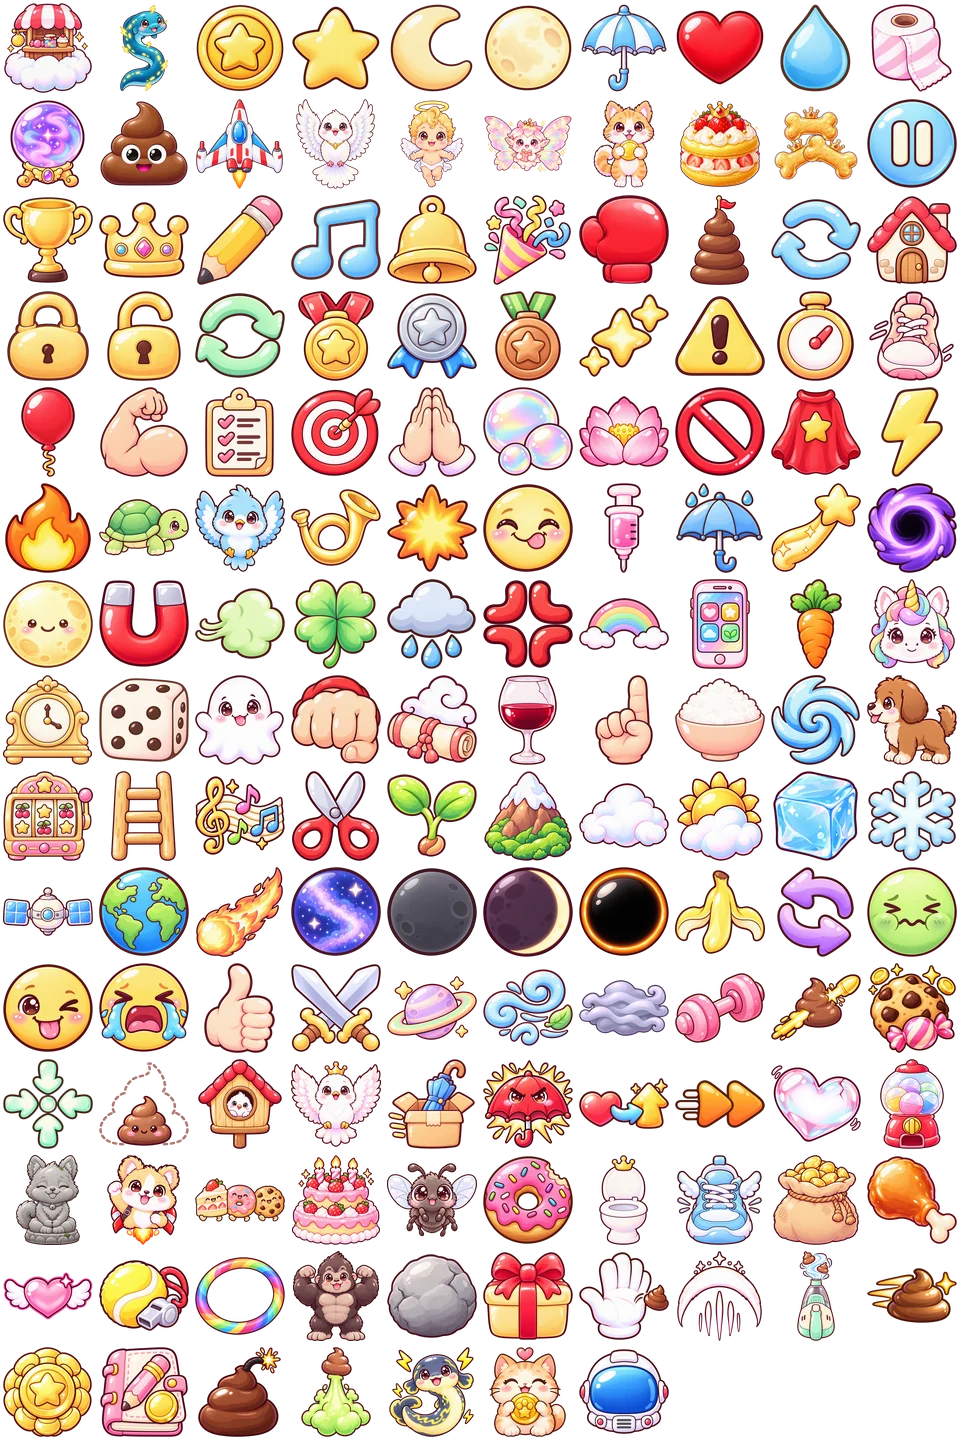
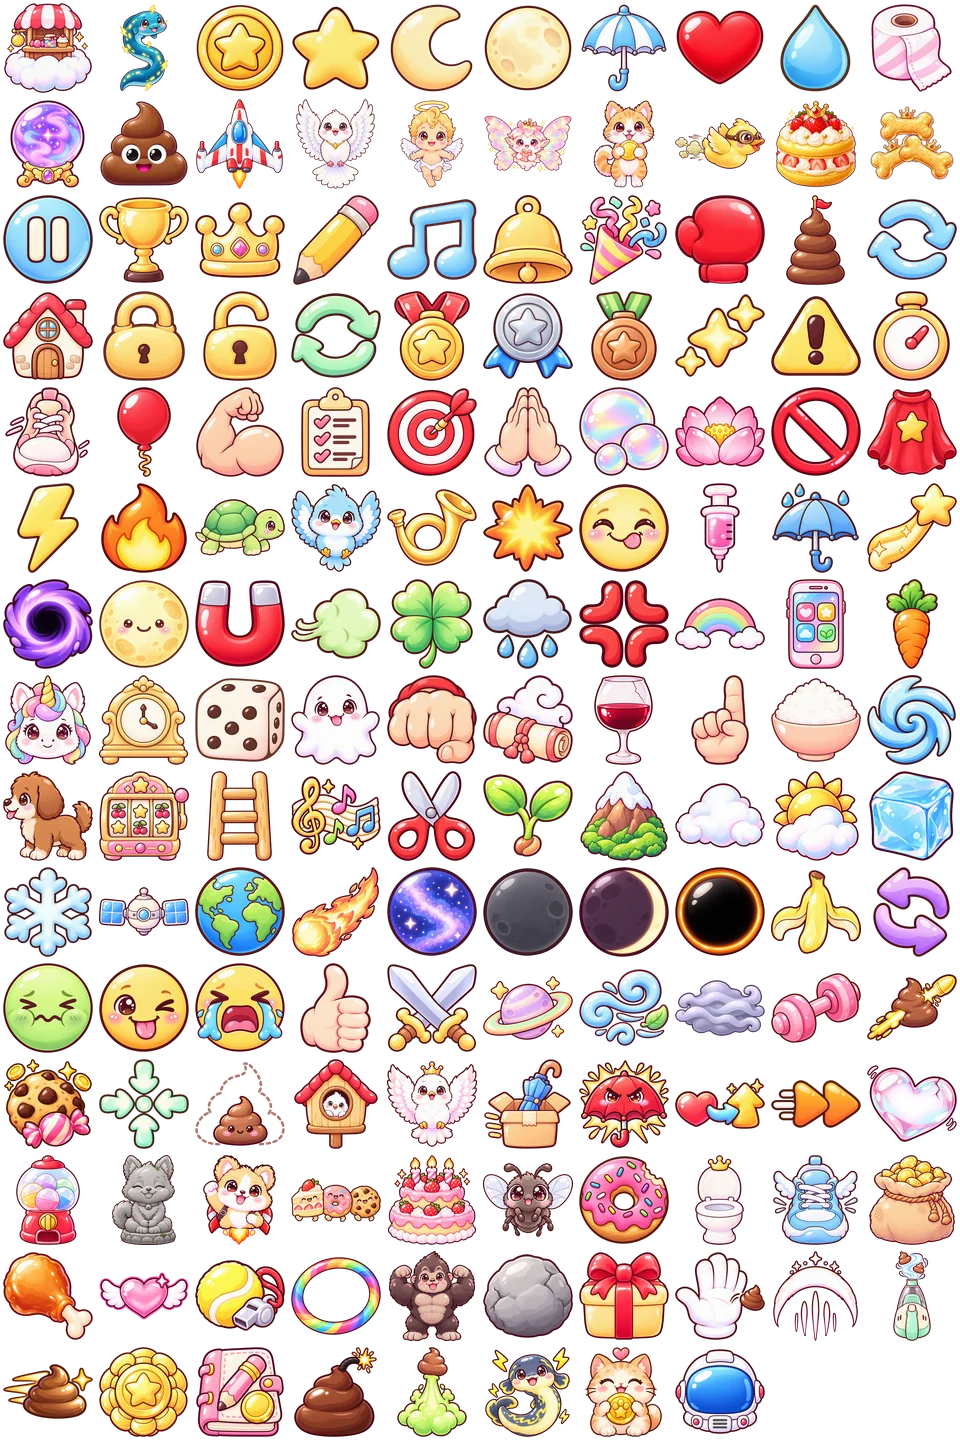
배포: v0.9.343 새 펫 '방귀 부릉 오리' — 8초마다 화면 가운데를 가로질러 날며 똥 부숨(Codex 그림, 상점 50코인)

diff --git a/index.html b/index.html
@@ -2603,12 +2603,12 @@
        밀어 숨길 뿐 남겨 두어 textContent 가 그대로다(글자를 읽는 코드가 안 깨진다). 나중에 붙는 글자는 MutationObserver 가 잡는다.
      · 캔버스 글자: fillText/strokeText 를 감싸 이모지 자리에 그림을 그린다 — 자리 폭은 원래 이모지 폭 그대로라 배치가 안 바뀐다.
      그림이 아직 안 왔거나 목록에 없는 이모지는 원래 이모지로 나온다. */
-  /*ICONS-BEGIN*/ const ICON_KEYS = ["🏪", "🐍", "🪙", "⭐", "🌙", "🌕", "☂", "❤", "💧", "🧻", "🔮", "💩", "🚀", "🕊", "👼", "🧚", "🐈", "🦴", "🍗", "⏸", "🏆", "👑", "✏", "🎵", "🔔", "🎉", "🥊", "🗼", "🔄", "🏠", "🔒", "🔓", "🔁", "🥇", "🥈", "🥉", "✨", "⚠", "⏱", "🏃", "🎈", "💪", "📋", "🎯", "🙏", "🫧", "🧘", "🚫", "🦸", "⚡", "🔥", "🐢", "🐦", "📯", "💥", "😋", "💉", "☔", "🌠", "🕳", "🌝", "🧲", "💨", "🍀", "🌧", "💢", "🌈", "📱", "🥕", "🦄", "🕰", "🎲", "👻", "👊", "👯", "🍷", "☝", "🍚", "🌀", "🐕", "🎰", "🪜", "🎼", "✂", "🌱", "⛰", "☁", "🌤", "🧊", "❄", "🛰", "🌍", "☄", "🌌", "🌑", "🌒", "⚫", "🍌", "😵", "🤢", "😜", "😭", "👍", "⚔", "🪐", "🌬", "🌫", "🏋", "🔩", "🍪", "🤏", "🟤", "🪺", "🦢", "📦", "🌂", "💞", "⏩", "🫙", "🪀", "🗿", "🐹", "🍰", "🎂", "🪰", "🍩", "🚽", "👟", "💰", "🍖", "💖", "🎾", "⭕", "🦍", "🪨", "🎁", "🙅", "🤹", "🧹", "😅", "🛡", "📝", "💣", "🧨", "🕺", "🏵", "🧑🚀"]; const ICON_COLS = 10, ICON_ROWS = 15, ICON_CELL = 96; /*ICONS-END*/
+  /*ICONS-BEGIN*/ const ICON_KEYS = ["🏪", "🐍", "🪙", "⭐", "🌙", "🌕", "☂", "❤", "💧", "🧻", "🔮", "💩", "🚀", "🕊", "👼", "🧚", "🐈", "🦆", "🦴", "🍗", "⏸", "🏆", "👑", "✏", "🎵", "🔔", "🎉", "🥊", "🗼", "🔄", "🏠", "🔒", "🔓", "🔁", "🥇", "🥈", "🥉", "✨", "⚠", "⏱", "🏃", "🎈", "💪", "📋", "🎯", "🙏", "🫧", "🧘", "🚫", "🦸", "⚡", "🔥", "🐢", "🐦", "📯", "💥", "😋", "💉", "☔", "🌠", "🕳", "🌝", "🧲", "💨", "🍀", "🌧", "💢", "🌈", "📱", "🥕", "🦄", "🕰", "🎲", "👻", "👊", "👯", "🍷", "☝", "🍚", "🌀", "🐕", "🎰", "🪜", "🎼", "✂", "🌱", "⛰", "☁", "🌤", "🧊", "❄", "🛰", "🌍", "☄", "🌌", "🌑", "🌒", "⚫", "🍌", "😵", "🤢", "😜", "😭", "👍", "⚔", "🪐", "🌬", "🌫", "🏋", "🔩", "🍪", "🤏", "🟤", "🪺", "🦢", "📦", "🌂", "💞", "⏩", "🫙", "🪀", "🗿", "🐹", "🍰", "🎂", "🪰", "🍩", "🚽", "👟", "💰", "🍖", "💖", "🎾", "⭕", "🦍", "🪨", "🎁", "🙅", "🤹", "🧹", "😅", "🛡", "📝", "💣", "🧨", "🕺", "🏵", "🧑🚀"]; const ICON_COLS = 10, ICON_ROWS = 15, ICON_CELL = 96; /*ICONS-END*/
   const ICON_IDX = new Map(ICON_KEYS.map((k, i) => [k, i]));
   const ICON_RE = ICON_KEYS.length ? new RegExp("(" + ICON_KEYS.slice().sort((a, b) => b.length - a.length)
     .map(k => k.replace(/[.*+?^${}()|[\]\\]/g, "\\$&")).join("|") + ")\\uFE0F?", "gu") : null;
   let iconSheet = null;
-  const ICON_V = 2;   // v0.9.341 그림만 바뀌어도 새로 받게 — 아이콘을 다시 그리면 1 올린다
+  const ICON_V = 3;   // v0.9.341 그림만 바뀌어도 새로 받게 — 아이콘을 다시 그리면 1 올린다
   const ICON_URL = "assets/icons.webp?k=" + ICON_KEYS.length + "-" + ICON_KEYS.join("").length + "-" + ICON_V;   // v0.9.78 칸 순서가 바뀌면 옛 그림을 쓰지 않게
   if (ICON_RE) {
     const im = new Image();
@@ -2724,7 +2724,7 @@
   const elTitle = document.getElementById("overTitle");
   const coinNote = document.getElementById("coinNote");
 
-  const GAME_VERSION = "v0.9.342";
+  const GAME_VERSION = "v0.9.343";
   /* 제작사 스플래시(bamhobak friends 로고) — 2026-09-20 끔. 다시 켜려면 true */
   const SPLASH_USE = false;   // 코드를 고칠 때마다 뒤 두 자리를 올린다
   document.getElementById("ver").textContent = GAME_VERSION;
@@ -3019,11 +3019,13 @@
     coincat: { nm: "코인냥이", ic: "🐈", img: "assets/pet_cat.png",
               ds: "가끔 코인을 물어다 줘요" },
     eel:    { nm: "찌릿 장어", ic: "⚡", img: "assets/pet_eel.png",
-              ds: "가끔 가까운 똥에 찌릿! 번개를 쏘고, 옆 똥까지 번져요" }
+              ds: "가끔 가까운 똥에 찌릿! 번개를 쏘고, 옆 똥까지 번져요" },
+    duck:   { nm: "방귀 부릉 오리", ic: "🦆", img: "assets/pet_duck.png",   // v0.9.343
+              ds: "가끔 방귀로 부릉! 화면 가운데를 가로질러 날아가며 닿는 똥을 부숴요" }
   };
   // 게임 화면에 그릴 펫 그림 (카드 그림과 같은 파일)
   const PET_IMG = {};
-  for (const id of ["angel", "gift", "coincat", "eel"]) {
+  for (const id of ["angel", "gift", "coincat", "eel", "duck"]) {
     const im = new Image();
     im.onload = () => { PET_IMG[id] = im; };
     im.src = PETS[id].img;
@@ -4812,6 +4814,8 @@
       go: () => { petOn.gift = true; giftT = GIFT_EVERY * 0.5; } },
     { id: "pet:coincat", ic: "🐈", nm: "펫 코인냥이", ds: "가끔 코인을 물어다 줘요", once: true, w: 0.7, cond: () => hasPet("coincat"),
       go: () => { petOn.coincat = true; catT = CAT_EVERY * 0.5; } },
+    { id: "pet:duck",    ic: "🦆", nm: "펫 방귀 부릉 오리", ds: "가끔 방귀로 부릉! 화면 가운데를 가로질러 날아가며 닿는 똥을 부숴요", once: true, w: 0.7, cond: () => hasPet("duck"),
+      go: () => { petOn.duck = true; duckT = DUCK_EVERY * 0.5; } },
     { id: "pet:eel",     ic: "🐍", nm: "펫 찌릿 장어", ds: "가끔 가까운 똥에 찌릿! 번개를 쏘고, 옆 똥까지 번져요", once: true, w: 0.7, cond: () => hasPet("eel"),
       go: () => { petOn.eel = true; eelT = EEL_EVERY * 0.5; } },
     /* ── 펫 전용 증강 — 그 펫을 데리고 있을 때만 후보에 나온다 ── */
@@ -4888,7 +4892,7 @@
         : "맞을 때 가끔 그림자만 남기고 쏙 피해요",
       go: () => { aug.dodge += augCount["afterimage"] ? 0.05 : 0.10; } },
     { id: "chainZap",   ic: "⚡", nm: "찌릿찌릿 번개", ds: "펫이 똥을 부술 때 번개가 튀어서 옆 똥 두 개도 터져요",
-      hidden: true, once: true, cond: () => zapOwnN() >= 3 && (petOn.galaga || petOn.helper || petOn.dove || petOn.eel || petOn.gift),   // v0.9.61 똥을 부수는 펫이면 누구든 · v0.9.161 그 펫 3마리 이상 사 둬야
+      hidden: true, once: true, cond: () => zapOwnN() >= 3 && (petOn.galaga || petOn.helper || petOn.dove || petOn.eel || petOn.gift || petOn.duck),   // v0.9.61 똥을 부수는 펫이면 누구든 · v0.9.161 그 펫 3마리 이상 사 둬야
       go: () => { aug.chainZap = true; } },
     { id: "wak",        ic: "👊", nm: "주먹 총알", ds: "총알이 주먹으로 바뀌어요. 맞은 똥이 날아가 다른 똥이랑 같이 펑!",
       hidden: true, once: true, cond: () => petOn.galaga && aug.galaga >= 2,   // 우주선 2대 이상
@@ -5303,6 +5307,9 @@
   let fairies = [], giftT = 0;
   let cats = [], catT = 0, catN = 0;
   let eelT = 0, bolts = [];
+  /* v0.9.343 방귀 부릉 오리 — DUCK_EVERY 초마다 화면 높이 45~55% 한 줄을 가로로 1.2초에 날아가며 닿는 똥을 부순다(다크똥 제외) */
+  const DUCK_EVERY = 8, DUCK_SEC = 1.2, DUCK_R = 34;
+  let duckT = 0, ducks = [], duckSide = 1;
   /* ── 점술가 ── 수정 구슬(옛 포춘쿠키)은 평균 14초마다, 예언은 PROPH_SEC 동안 */
   const FORTUNE_FIRST = 2, PROPH_SEC = 10;   // 판 시작 2초 뒤 첫 예언, 그다음부터 10초마다 바뀐다
   /* 예언 — 10초마다 하나씩 저절로 바뀐다. good 좋은 것 · bad 나쁜 것 · both 양면.
@@ -9460,7 +9467,7 @@
   const BOOK_PET = { "pet:helper": "helper", hungry: "helper",
                      "pet:galaga": "galaga", wak: "galaga", pierce: "galaga",
                      "pet:dove": "dove", doveHome: "dove", doveWhat: "dove",
-                     "pet:angel": "angel", "pet:gift": "gift", "pet:coincat": "coincat", "pet:eel": "eel" };
+                     "pet:angel": "angel", "pet:gift": "gift", "pet:coincat": "coincat", "pet:eel": "eel", "pet:duck": "duck" };
   const BOOK_COND = {   // v0.9.163 꼬마·강아지 눈높이 말투
     small: "버피는 못 먹어요", umbrella3: "버피는 못 먹어요", dash: "도도는 못 먹어요",
     "pet:angel": "레벨 4부터 나와요",
@@ -9479,7 +9486,7 @@
     clone: "레벨 7부터 · 하트가 2개 아래일 때 나와요"
   };
   /* v0.9.161 찌릿찌릿 번개 — 똥을 부수는 펫 다섯 중 3마리 이상 사 두면 열린다 */
-  const ZAP_PETS = ["helper", "galaga", "dove", "gift", "eel"];
+  const ZAP_PETS = ["helper", "galaga", "dove", "gift", "eel", "duck"];
   function zapOwnN() { return ZAP_PETS.filter(p => hasPet(p)).length; }
   function bookOpen(a) { const p = BOOK_PET[a.id]; if (a.id === "chainZap" && zapOwnN() < 3) return false; return (!p || hasPet(p)) && (!ACH[a.id] || achU.has(a.id)); }   // v0.9.61 업적으로 여는 증강도 잠긴 채 보인다
   let bookSel = null;
@@ -10402,7 +10409,7 @@
     angelUsed = false; angelAura = 0; angelFx = 0; petFon = false; reviveUsed = false;
     fairies = []; giftT = GIFT_EVERY * 0.6;
     cats = []; catT = CAT_EVERY * 0.7; catN = 0;
-    eelT = EEL_EVERY * 0.6; bolts = [];
+    eelT = EEL_EVERY * 0.6; bolts = []; duckT = DUCK_EVERY * 0.5; ducks = [];
     bullets = []; shipClock = 0; aug.galaga = 0;
     coinRun = 0; coinDebt = 0; coinSeen = 0; coinGot = 0; coinSeenV = 0; coinGotV = 0;
     monkStreak = 0; fullOwn = false; fullBanner = 0; fullFx = 0;
@@ -11633,6 +11640,27 @@
         const n = zapChain(ex, ey, EEL_CHAIN + (aug.chainZap ? 2 : 0), 9999, true);
         eelT = n ? EEL_EVERY : 0.5;          // 똥이 없으면 잠깐 뒤 다시
       }
+    }
+    // ---- 방귀 부릉 오리 — 가로로 휭 지나가며 똥을 부순다 ----
+    if (petOn.duck && state === STATE.PLAY) {
+      duckT -= dt * tsc * gPet();
+      if (duckT <= 0) {
+        duckT = DUCK_EVERY;
+        duckSide = -duckSide;                 // 왼쪽에서, 다음엔 오른쪽에서
+        ducks.push({ t: 0, dir: duckSide, y: H * (0.45 + Math.random() * 0.1) });
+        if (!sfx("dash", 0.7)) { beep(140, .18, "sawtooth", .05); beep(90, .22, "square", .03); }   // 방귀 대시 소리 재사용
+      }
+    }
+    for (let k = ducks.length - 1; k >= 0; k--) {
+      const d = ducks[k];
+      d.t += dt * tsc;
+      const f = d.t / DUCK_SEC;
+      d.x = d.dir > 0 ? -60 + (W + 120) * f : W + 60 - (W + 120) * f;
+      if (f >= 1) { ducks.splice(k, 1); continue; }
+      if (Math.random() < dt * 40) burst(d.x - d.dir * 26, d.y + 6, "#cfe2a8", 1);   // 방귀 자국
+      const before = items.length;
+      smashPoopsAround(d.x, d.y, DUCK_R, false);
+      if (items.length < before) { burst(d.x, d.y, "#ffd23f", 8); shake = Math.max(shake, 4); }
     }
     for (let k = bolts.length - 1; k >= 0; k--) {
       bolts[k].t += dt;
@@ -16563,6 +16591,7 @@
     "pet:angel": "쓰러지면 한 번 하트 1개로 되살림 + 2초 무적, 되살아난 뒤 6초 동안 반경 92px 똥을 밀어냄 · 레벨 4부터 · 상점 구매 필요",
     "pet:gift": "18초마다 떨어지는 똥 하나를 아이템으로(하트 25% · 우산 25% · 별 30% · 달 20%, 무무는 달 대신 별, 버피는 우산 대신 하트, 하트가 가득이면 별) · 처음은 9초 뒤 · 상점 구매 필요",
     "pet:coincat": "9초마다 코인을 물어다 떨어뜨림 · 세 번째마다 5코인 · 처음은 4.5초 뒤 · 상점 구매 필요",
+    "pet:duck": "8초마다 화면 높이 45~55% 한 줄을 1.2초에 가로질러 날며 반지름 34px 안 똥을 부숨(다크똥 제외, 좌우 번갈아) · 상점 구매 필요",
     "pet:eel": "7초마다 가장 가까운 똥에 번개, 옆 똥으로 2개까지 옮겨붙음(건너뛰는 거리 110px) · 상점 구매 필요",
     doveHome: "비둘기 출격 거리 -20% (겹칠수록 덜, 최대 3번: 110m → 88m → 73m → 62m)",
     hungry: "뿌잉이 아이템이 뜨고 3초 뒤 대신 먹으러 감(한 번에 한 마리, 다녀오면 2초 쉼, 속도 500px/s)",
@@ -18275,6 +18304,15 @@
   }
   /* 앞쪽 — 날아다니는 선물 요정, 고개 내민 야옹이, 번개 */
   function drawPetsFront(now) {
+    for (const d of ducks) {                 // v0.9.343 방귀 부릉 오리
+      if (!PET_IMG.duck || d.x === undefined) continue;
+      const im = PET_IMG.duck, h = 54, w = h * im.width / im.height, bob = Math.sin(d.t * 18) * 3;
+      ctx.save(); ctx.translate(d.x, d.y + bob);
+      if (d.dir < 0) ctx.scale(-1, 1);       // 그림은 오른쪽을 본다
+      ctx.rotate(-0.06);
+      ctx.drawImage(im, -w / 2, -h / 2, w, h);
+      ctx.restore();
+    }
     for (const b of bolts) {                 // 번개 — 지그재그 두 겹(굵은 빛 + 가는 심)
       const k = b.t / b.life;
       ctx.save();
